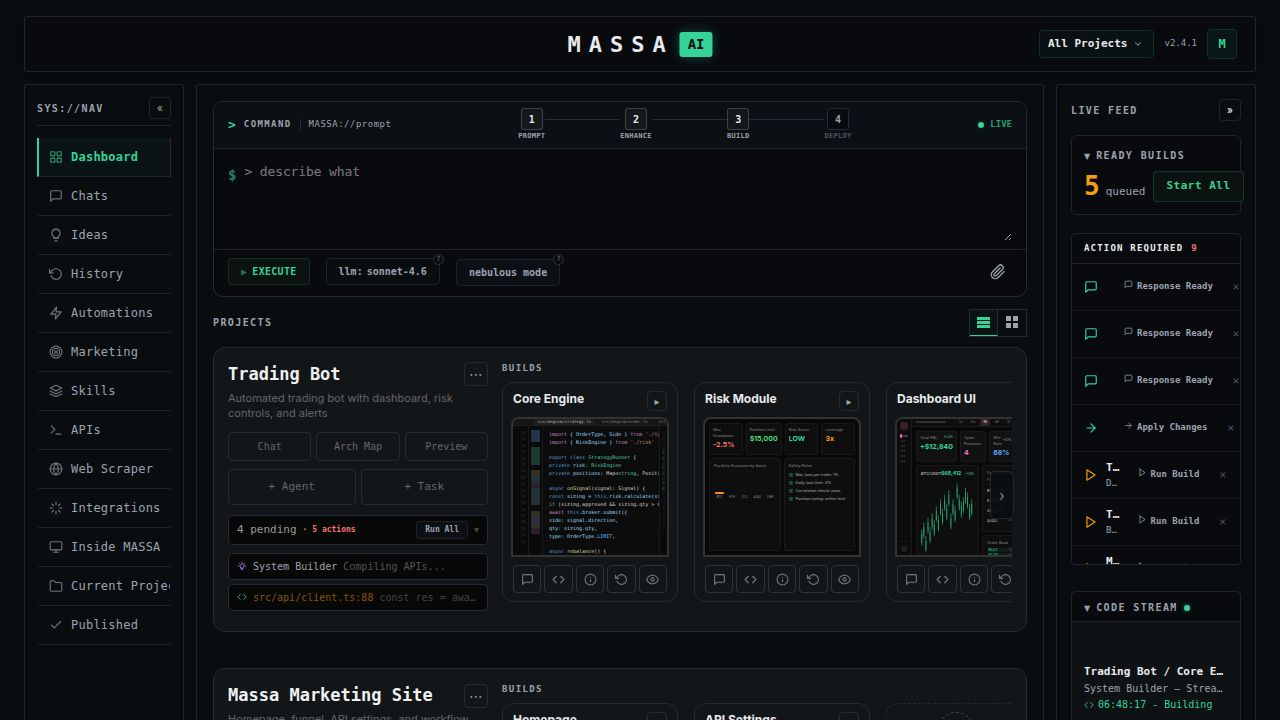
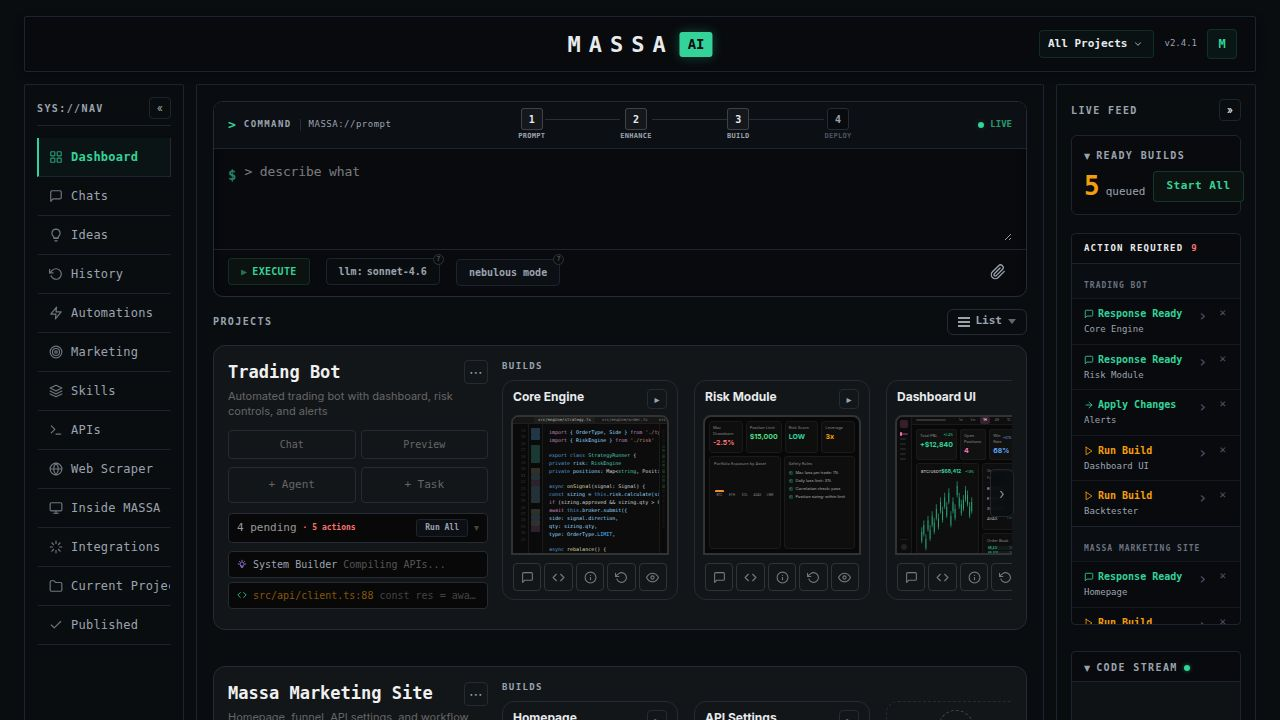
Persist dismissed action items to localStorage
Task: Keep dismissed action items hidden after page refresh

Changes made:
- artifacts/massa/src/pages/Overview.tsx:
  - Changed `dismissedActionKeys` useState initializer to a lazy function
    that reads from localStorage key `massa_dismissedActionKeys` on mount
  - Added a useEffect that serializes the Set to JSON and writes it to
    localStorage whenever `dismissedActionKeys` changes

Both the read and write paths are wrapped in try/catch to gracefully handle
environments where localStorage is unavailable (private browsing, storage
quota exceeded, etc.).

No deviations from the task description. All three acceptance criteria are met:
- Dismissed keys are written to localStorage on change (useEffect)
- On mount, the initial state is read from localStorage (lazy initializer)
- Items dismissed in a previous session stay dismissed until their status
  actually changes (keys are stable: `${item.id}:${item.action.type}`)

Replit-Task-Id: 66714b68-b84d-4025-84f9-561e5dad76ea

diff --git a/artifacts/massa/src/pages/Overview.tsx b/artifacts/massa/src/pages/Overview.tsx
@@ -2061,8 +2061,19 @@ export function Overview() {
   // Code stream
   type CodeLine = { id: number; kind: 'code' | 'qa'; content: string; file?: string; lineNo?: number; qa?: 'pass' | 'warn'; projectId?: string }
   const [collapsedSections, setCollapsedSections] = useState<Record<string, boolean>>({})
-  const [dismissedActionKeys, setDismissedActionKeys] = useState<Set<string>>(new Set())
+  const [dismissedActionKeys, setDismissedActionKeys] = useState<Set<string>>(() => {
+    try {
+      const stored = localStorage.getItem('massa_dismissedActionKeys')
+      if (stored) return new Set<string>(JSON.parse(stored))
+    } catch {}
+    return new Set<string>()
+  })
   const toggleSection = (key: string) => setCollapsedSections(prev => ({ ...prev, [key]: !prev[key] }))
+  useEffect(() => {
+    try {
+      localStorage.setItem('massa_dismissedActionKeys', JSON.stringify(Array.from(dismissedActionKeys)))
+    } catch {}
+  }, [dismissedActionKeys])
   const sectionHeader = (label: string, key: string, extra?: React.ReactNode) => (
     <div
       onClick={() => toggleSection(key)}